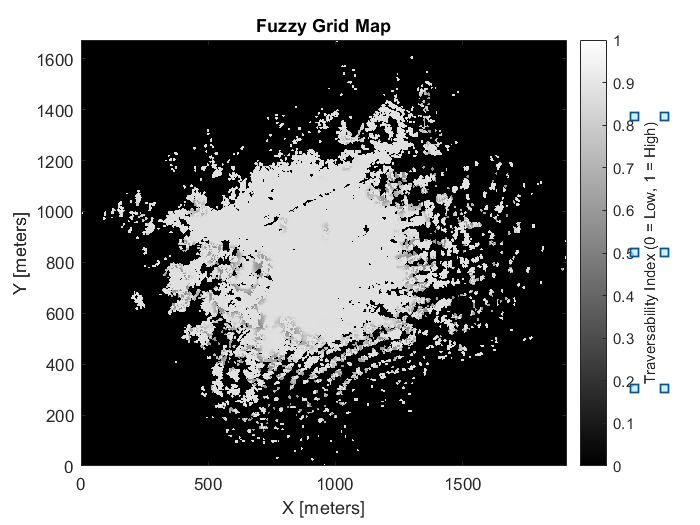
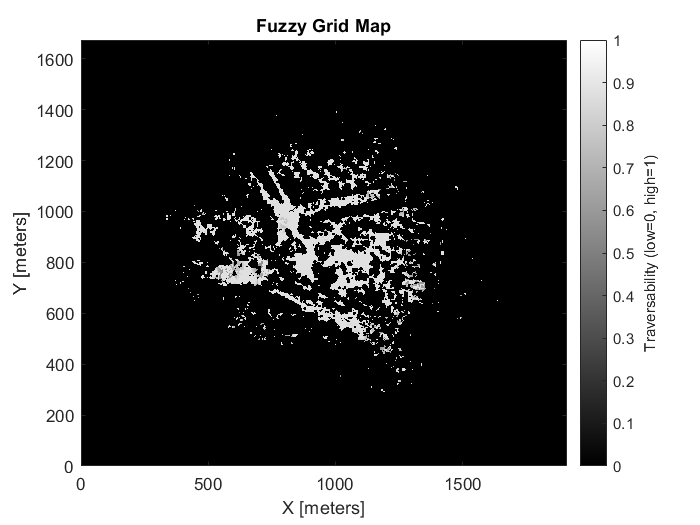
Updated Plots

diff --git a/traversability_index_fuzzy.m b/traversability_index_fuzzy.m
@@ -9,29 +9,29 @@ function [gridMap] = traversability_index_fuzzy(slopeScore, roughnessScore, elev
 %     %
 %     % mins = min(slopeScore, [], 'all', 'omitnan');
 %     % maxs = max(slopeScore, [], 'all', 'omitnan');
-% 
+%
 %     %% Normalization and dealing with NaN
 %     roughnessScore = normalize(roughnessScore, 'range');
 %     slopeScore = normalize(slopeScore, 'range');
 %     roughnessScore(isnan(roughnessScore)) = -1;
 %     slopeScore(isnan(slopeScore)) = -1;
-% 
+%
 %     %% Membership Functions
 %     rmf = [
 %         fismf("trapmf", [0 0 0.2 0.4], "Name", "smooth");
 %         fismf("trapmf", [0.35 0.5 0.6 0.8],"Name", "rough");
 %         fismf("trapmf", [0.75 0.85 1 1], "Name", "rocky")];
-% 
+%
 %     smf = [
 %         fismf("trapmf", [0 0 0.15 0.25], "Name", "flat"),
 %         fismf("trapmf", [0.15 0.4 0.6 0.8],"Name", "sloped"),
 %         fismf("trapmf", [0.70 0.85 1 1], "Name", "steep")];
-% 
+%
 %     %% Evaluating MFs
 %     [rows, cols] = size(roughnessScore);
 %     roughIndex = zeros(rows, cols, 3);
 %     slopeIndex = zeros(rows, cols, 3);
-% 
+%
 %     for i=progress(1:rows)
 %         for j=1:cols
 %             if roughnessScore(i, j) >= 0   % Both roughness and slope have -1 at same indexes
@@ -43,7 +43,7 @@ function [gridMap] = traversability_index_fuzzy(slopeScore, roughnessScore, elev
 %             end
 %         end
 %     end
-% 
+%
 %     save(fuzzy_data_path, 'roughIndex', 'slopeIndex')
 % else
 %     disp("Loading Roughness and Slope Indexes")
@@ -57,7 +57,7 @@ function [gridMap] = traversability_index_fuzzy(slopeScore, roughnessScore, elev
 %     fismf("gaussmf", [0.15 1], "Name", "low")];
 
 % travers_rules = [
-%     "High Travers. if Flat and Smooth", 
+%     "High Travers. if Flat and Smooth",
 %     "Medium Travers. if (Sloped and Smooth or Rocky) or (Rough and Flat or Sloped)" ,
 %     "Low Travers. if Rocky or Steep"];
 
@@ -70,39 +70,43 @@ function [gridMap] = traversability_index_fuzzy(slopeScore, roughnessScore, elev
 %         if ~isnan(roughIndex(i, j, :))
 %             r = slopeIndex(i, j, :);
 %             s = roughIndex(i, j, :);
-% 
+%
 %             disp(r);
 %             disp(s);
-% 
+%
 %             high = min(r(1), s(1));
 %             med = max(min(s(2), max(r(1), r(2))), min(r(2), max(s(1), s(2))));
 %             low = max(r(3), s(3));
-% 
+%
 %             disp(high)
 %             disp(med)
 %             disp(low)
-% 
+%
 %             inference = [high; med; low];
 %             disp(inference)
 %             index = defuzz(inference, omf, 'centroid');
-%             setOccupancy(gridMap, grid2local(gridMap,[i, j]), index); 
+%             setOccupancy(gridMap, grid2local(gridMap,[i, j]), index);
 %         else
 %             setOccupancy(gridMap, grid2local(gridMap,[i, j]), 1);
 %         end
 %     end
 % end
 
-traversability_fis = readfis("variable data/traversability_fis2.fis");
+traversability_fis = readfis("variable data/traversability_fis.fis");
 disp("Calculating Index")
 [rows, cols] = size(roughnessScore);
 gridMap = occupancyMap(rows, cols, 0.3, 'grid');
 for i=progress(1:rows)
     for j=1:cols
         if ~isnan(roughnessScore(i, j))
-            r = roughnessScore(i, j);
-            s = slopeScore(i, j);
-            index = evalfis(traversability_fis, [r, s]);
-            setOccupancy(gridMap, grid2local(gridMap,[i, j]), 1-index); 
+            if elevModel_labels(i, j) == 0
+                r = roughnessScore(i, j);
+                s = slopeScore(i, j);
+                index = evalfis(traversability_fis, [r, s]);
+                setOccupancy(gridMap, grid2local(gridMap,[i, j]), 1-index);
+            else
+                setOccupancy(gridMap, grid2local(gridMap,[i, j]), 1);
+            end
         else
             setOccupancy(gridMap, grid2local(gridMap,[i, j]), 1);
         end

diff --git a/digital_em.m b/digital_em.m
@@ -67,7 +67,6 @@ else
     figure;
 %     inflate(gridMap, 0.2)
     show(gridMap);
-    legend('High', 'Medium', 'Low')
     title("Fuzzy Grid Map")
 end
 
